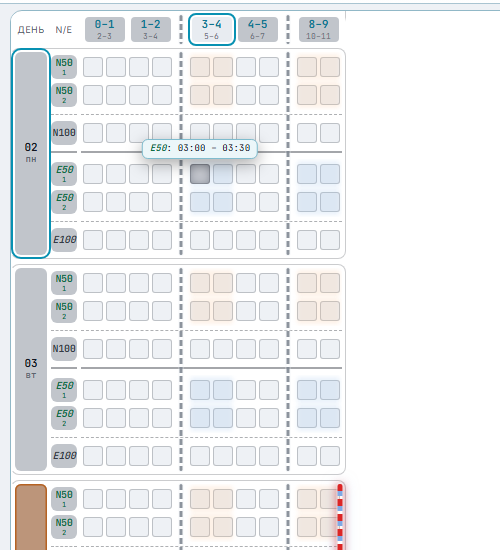
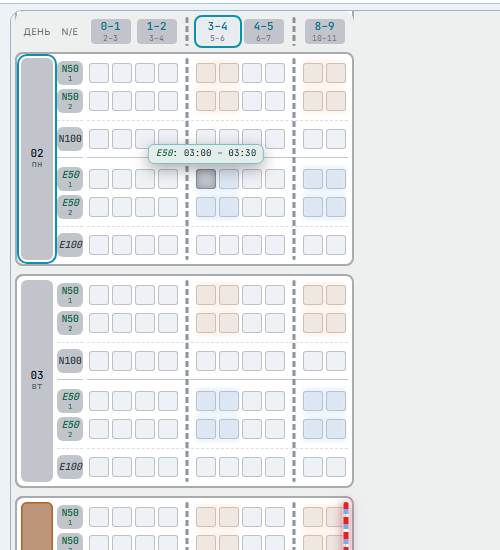
style(schedule): tint time hints with the club limit color

Changed region(s): [[0.0, 0.0, 0.72, 1.0]]

diff --git a/apps/web/e2e/hour-load.spec.ts b/apps/web/e2e/hour-load.spec.ts
@@ -93,6 +93,7 @@ for (const theme of ["dark", "light"]) {
     const cell = n50.locator('[data-slot][data-half="6"]').first();
     await cell.hover();
     await expect(page.locator(".v2-opt-frame")).toHaveText("N50: 03:00 – 03:30");
+    const frame = page.locator(".v2-opt-frame");
     const frameLimit = page.locator(".v2-opt-frame-limit");
     const frameTime = page.locator(".v2-opt-frame-time");
     await expect(frameLimit).toHaveCSS("color", theme === "dark" ? "rgb(102, 204, 255)" : "rgb(18, 107, 68)");
@@ -100,6 +101,7 @@ for (const theme of ["dark", "light"]) {
     await expect(frameTime).toHaveCSS("font-style", "normal");
     await expect(frameTime).toHaveCSS("font-weight", "400");
     expect(await frameTime.evaluate(el => getComputedStyle(el).color)).toBe(await page.locator(".v2-opt-frame").evaluate(el => getComputedStyle(el).color));
+    const n50Background = await frame.evaluate(el => getComputedStyle(el).backgroundColor);
     const [washBox, cellBox] = await Promise.all([wash.boundingBox(),cell.boundingBox()]);
     expect(Math.abs(washBox!.x-cellBox!.x)).toBeLessThan(1);
     expect(washBox!.y).toBeLessThan(cellBox!.y);
@@ -113,12 +115,15 @@ for (const theme of ["dark", "light"]) {
     await n100.locator('[data-slot][data-half="6"]').first().hover();
     await expect(page.locator(".v2-opt-frame")).toHaveText("N100: 03:00 – 03:30");
     await expect(frameLimit).toHaveCSS("color", theme === "dark" ? "rgb(216, 222, 233)" : "rgb(52, 59, 70)");
+    expect(await frame.evaluate(el => getComputedStyle(el).backgroundColor)).not.toBe(n50Background);
     await e50.locator('[data-slot][data-half="6"]').first().hover();
     await expect(page.locator(".v2-opt-frame")).toBeVisible();
     await expect(page.locator(".v2-opt-frame")).toHaveText("E50: 03:00 – 03:30");
     await expect(frameLimit).toHaveCSS("font-style", "italic");
     await expect(frameLimit).toHaveCSS("color", theme === "dark" ? "rgb(102, 204, 255)" : "rgb(18, 107, 68)");
     await expect(frameTime).toHaveCSS("font-style", "normal");
+    expect(await frame.evaluate(el => getComputedStyle(el).backgroundColor)).toBe(n50Background);
+    await frame.screenshot({ path: path.resolve(`../../memory/tasks/2026-11-04-hover-tint-${theme}.png`), scale: "css" });
     await page.screenshot({ path: path.resolve(`../../memory/tasks/2026-11-04-hour-load-grid-${theme}.png`), clip: { x:0, y:80, width:500, height:550 } });
   });
 }

diff --git a/apps/web/src/v2/v2.css b/apps/web/src/v2/v2.css
@@ -10817,7 +10817,7 @@ textarea.v2-ctrl.v2-cab-area {
   padding: 4px 7px 5px;
   border: 1px solid color-mix(in srgb, var(--ring) 42%, var(--border));
   border-radius: 6px;
-  background: color-mix(in srgb, var(--popover) 92%, var(--ring));
+  background: color-mix(in srgb, var(--opt-frame-limit-tone, var(--ring)) 12%, var(--popover));
   color: var(--popover-foreground);
   font-family: "JetBrains Mono", ui-monospace, monospace;
   font-size: 9px;
@@ -11643,7 +11643,7 @@ html[data-ui-theme="light"] .v2-opt-cell.is-hover::before {
 .v2-opt.is-kit .v2-opt-frame {
   color: var(--popover-foreground);
   text-shadow: none;
-  background: color-mix(in srgb, var(--popover) 92%, var(--ring));
+  background: color-mix(in srgb, var(--opt-frame-limit-tone, var(--ring)) 12%, var(--popover));
   border-color: color-mix(in srgb, var(--ring) 42%, var(--border));
 }
 

diff --git a/apps/web/src/v2/optField/dom.ts b/apps/web/src/v2/optField/dom.ts
@@ -179,7 +179,8 @@ function placeFrame(root: HTMLElement, mem: NavMem, hit: SlotHit, label: string)
     const pair = document.createElement("span");
     pair.className = "v2-opt-frame-limit";
     pair.dataset.variant = hit.variant;
-    pair.style.color = limitTone(hit.limit);
+    frame.style.setProperty("--opt-frame-limit-tone", limitTone(hit.limit));
+    pair.style.color = "var(--opt-frame-limit-tone)";
     pair.textContent = pairLabel;
     const time = document.createElement("span");
     time.className = "v2-opt-frame-time";

diff --git a/docs/current-state.md b/docs/current-state.md
@@ -4,7 +4,7 @@
 
 4 ноября 2026: в личных настройках расписания добавлено отключение цветной подсветки нагрузки. Выбор запоминается в браузере по аккаунту и среде, сброс включает подсветку; клубные цвета остаются прежними. Дополнение к локальной ветке `codex/schedule-hour-load`, без новой миграции и без публикации.
 
-4 ноября 2026: локально добавлены независимая клубная нагрузка по `вид:лимит`, мягкая статичная CSS-подсветка точных часов, разделители групп и подсказка `N50: время`. Лимит в подсказке имеет клубный цвет, Regular курсивом; время нейтральное и обычным начертанием. В нагрузке, ёмкости и мёртвом времени одинаковый левый выбор двумя столбцами N/E; Regular курсивом. Все блоки сворачиваются; по умолчанию открыт только блок управления с переключателями. Рабочая ветка `codex/schedule-hour-load` поверх палитры 0994f44, без публикации и облачной миграции. Перед клиентом нужна `20261104101829_schedule_hour_load.sql` и предыдущая миграция палитры. [Отчёт](../memory/tasks/2026-11-04-hour-load-groups.md).
+4 ноября 2026: локально добавлены независимая клубная нагрузка по `вид:лимит`, мягкая статичная CSS-подсветка точных часов, разделители групп и подсказка `N50: время`. Лимит в подсказке имеет клубный цвет, Regular курсивом; время нейтральное и обычным начертанием. Фон подсказки слегка окрашен текущим цветом лимита: 12% цвета палитры и 88% фона всплывающих окон, через CSS color-mix. Настройка палитры и смена темы автоматически меняют оттенок; время остаётся нейтральным. В нагрузке, ёмкости и мёртвом времени одинаковый левый выбор двумя столбцами N/E; Regular курсивом. Все блоки сворачиваются; по умолчанию открыт только блок управления с переключателями. Рабочая ветка `codex/schedule-hour-load` поверх палитры 0994f44, без публикации и облачной миграции. Перед клиентом нужна `20261104101829_schedule_hour_load.sql` и предыдущая миграция палитры. [Отчёт](../memory/tasks/2026-11-04-hour-load-groups.md).
 
 4 ноября 2026: локально реализована общая настраиваемая палитра лимитов клуба (5/25/50/100/250/500), отдельная для обеих тем, с покерными цветами по умолчанию и курсивом Regular. Редактор администратора расположен в самом низу настроек расписания и свёрнут. Палитра используется в сетке, календаре и JPEG; сохранение защищено серверными правами и проверкой конфликтов. В облако пока не опубликовано: перед клиентом нужна миграция `20261104095535_club_limit_palette.sql`. [Отчёт реализации](../memory/tasks/2026-11-04-club-limit-palette.md).
 

diff --git a/docs/decisions.md b/docs/decisions.md
@@ -91,7 +91,7 @@
 
 4 ноября 2026: Алексей сначала выбрал C со свечением, затем заменил свечение небольшим отличием фона расписания от дневных блоков, сохранив усиленную рамку и иерархию день → вид турнира → лимит. Рабочие размеры: рамка дня 2 px, между видами 1 px сплошная, между лимитами 1 px более бледная пунктирная; отступ доски уменьшен до 4 px, зазор между днями 8 px. Настоящий border заменяет внутреннюю тень, которую перекрывала закреплённая колонка даты; CSS-псевдоэлемент удерживает левый край при горизонтальной прокрутке. У дня нет тени или фильтра: поле отличается однотонной CSS-заливкой (7% foreground к card), без анимации.
 
-4 ноября 2026, уточнение Алексея: в подсказке наведения цвет лимита берётся из палитры клуба, Regular курсивом, Nitro прямой. Время остаётся нейтральным и обычным начертанием, чтобы цвет быстро обозначал выбранную пару.
+4 ноября 2026, уточнение Алексея: в подсказке наведения цвет лимита берётся из палитры клуба, Regular курсивом, Nitro прямой. Время остаётся нейтральным и обычным начертанием, чтобы цвет быстро обозначал выбранную пару. Фон подсказки слегка окрашен текущим цветом лимита: 12% цвета палитры и 88% фона всплывающих окон, через CSS color-mix. Настройка палитры и смена темы автоматически меняют оттенок; время остаётся нейтральным.
 
 4 ноября 2026, принято Алексеем: пользователю нужен личный переключатель «Отключить подсветку слотов» в окне настроек расписания. Реализация скрывает цвет нагрузки, по умолчанию он виден; локальное запоминание отдельно по аккаунту и среде, сброс возвращает подсветку. Общая настройка клуба не изменяется.
 

diff --git a/memory/tasks/2026-11-04-hour-load-groups.md b/memory/tasks/2026-11-04-hour-load-groups.md
@@ -53,3 +53,8 @@
 По прямому поручению Алексея лимит в плашке наведения имеет текущий цвет клуба и начертание вида: N прямой, E курсив. Двоеточие и время сохраняют нейтральный цвет, прямой шрифт и обычную толщину. Два текстовых DOM-элемента создаются только при смене подписи, CSS-переменная палитры обновляет цвет без дополнительных обработчиков.
 
 Проверены обе темы, пользовательские цвета, переход N50 → N100 → E50 в одном часу, нейтральность времени и сохранение диапазонов объединённых смен.201 unit, types/lint/build и bundle257,2/260 прошли. Полный E2E:59 passed,1 штатный skip,2 сбоя из-за неполной палитры в тестовых данных; после исправления набора цветов оба целевых сценария прошли (61 уникальный успешный E2E). Скриншоты сетки выше обновлены и визуально проверены. Схема и облако не менялись.
+
+
+## Дополнение: оттенок фона подсказки
+
+4 ноября 2026, поручение Алексея: слегка окрасить фон подсказки времени цветом выбранного лимита. Реализовано CSS color-mix: 12% цвета лимита, 88% базового popover. Общая CSS-переменная связывает фон и текст лимита; изменяется только при существующем обновлении подписи, дополнительных обработчиков или анимации нет. Время нейтральное, Regular курсивом. Обе темы и переход N50 → N100 → E50 проверены: разные лимиты дают разные фоны, одинаковый номинал в обоих видах — одинаковый фон. Визуально просмотрены [тёмная](2026-11-04-hover-tint-dark.png) и [светлая](2026-11-04-hover-tint-light.png) подсказки. Готово локально. Проверки: 201 unit, 63 E2E + 1 штатный live Discord skip, typecheck/lint/build, bundle 257,2/260 KiB. Документация состояния, решений и UX обновлена. Без изменений базы, push и публикации.
